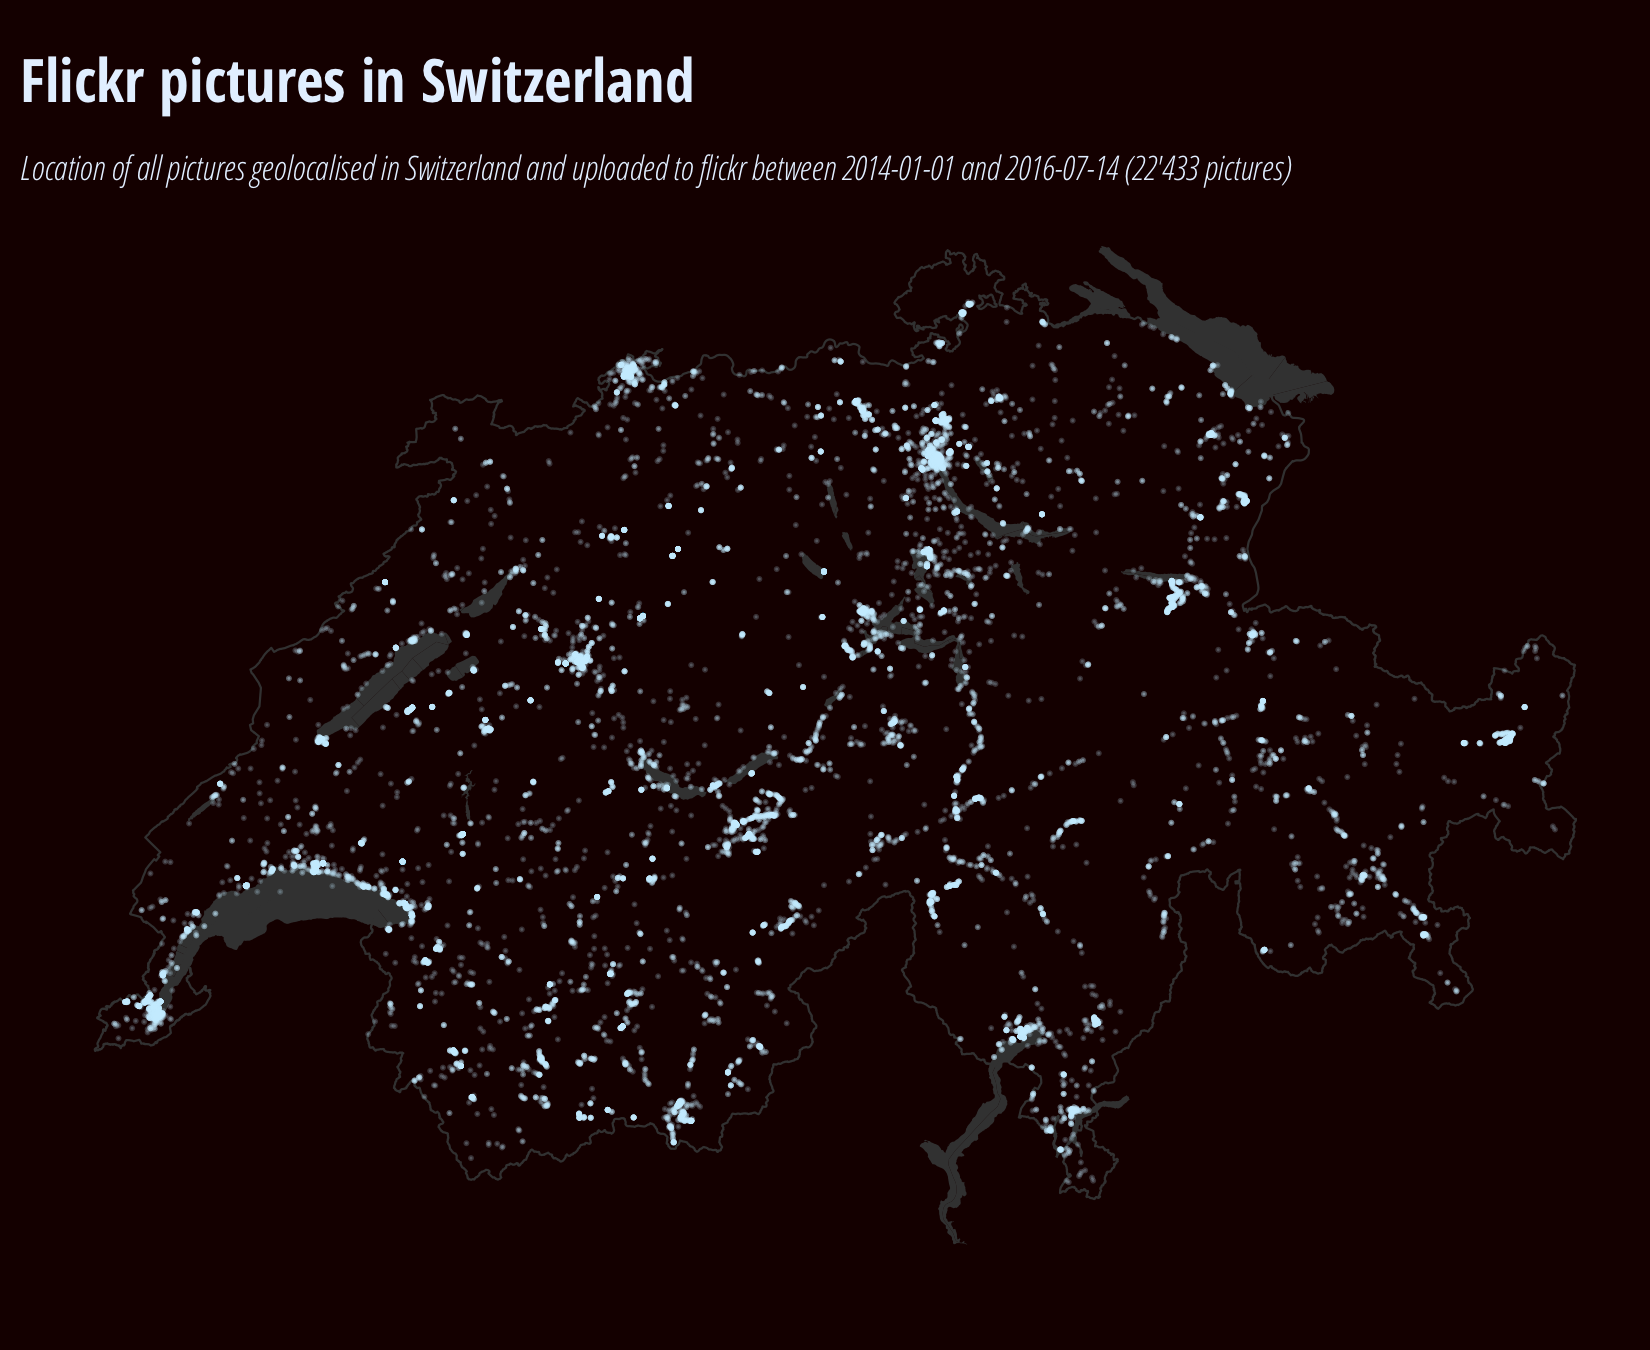
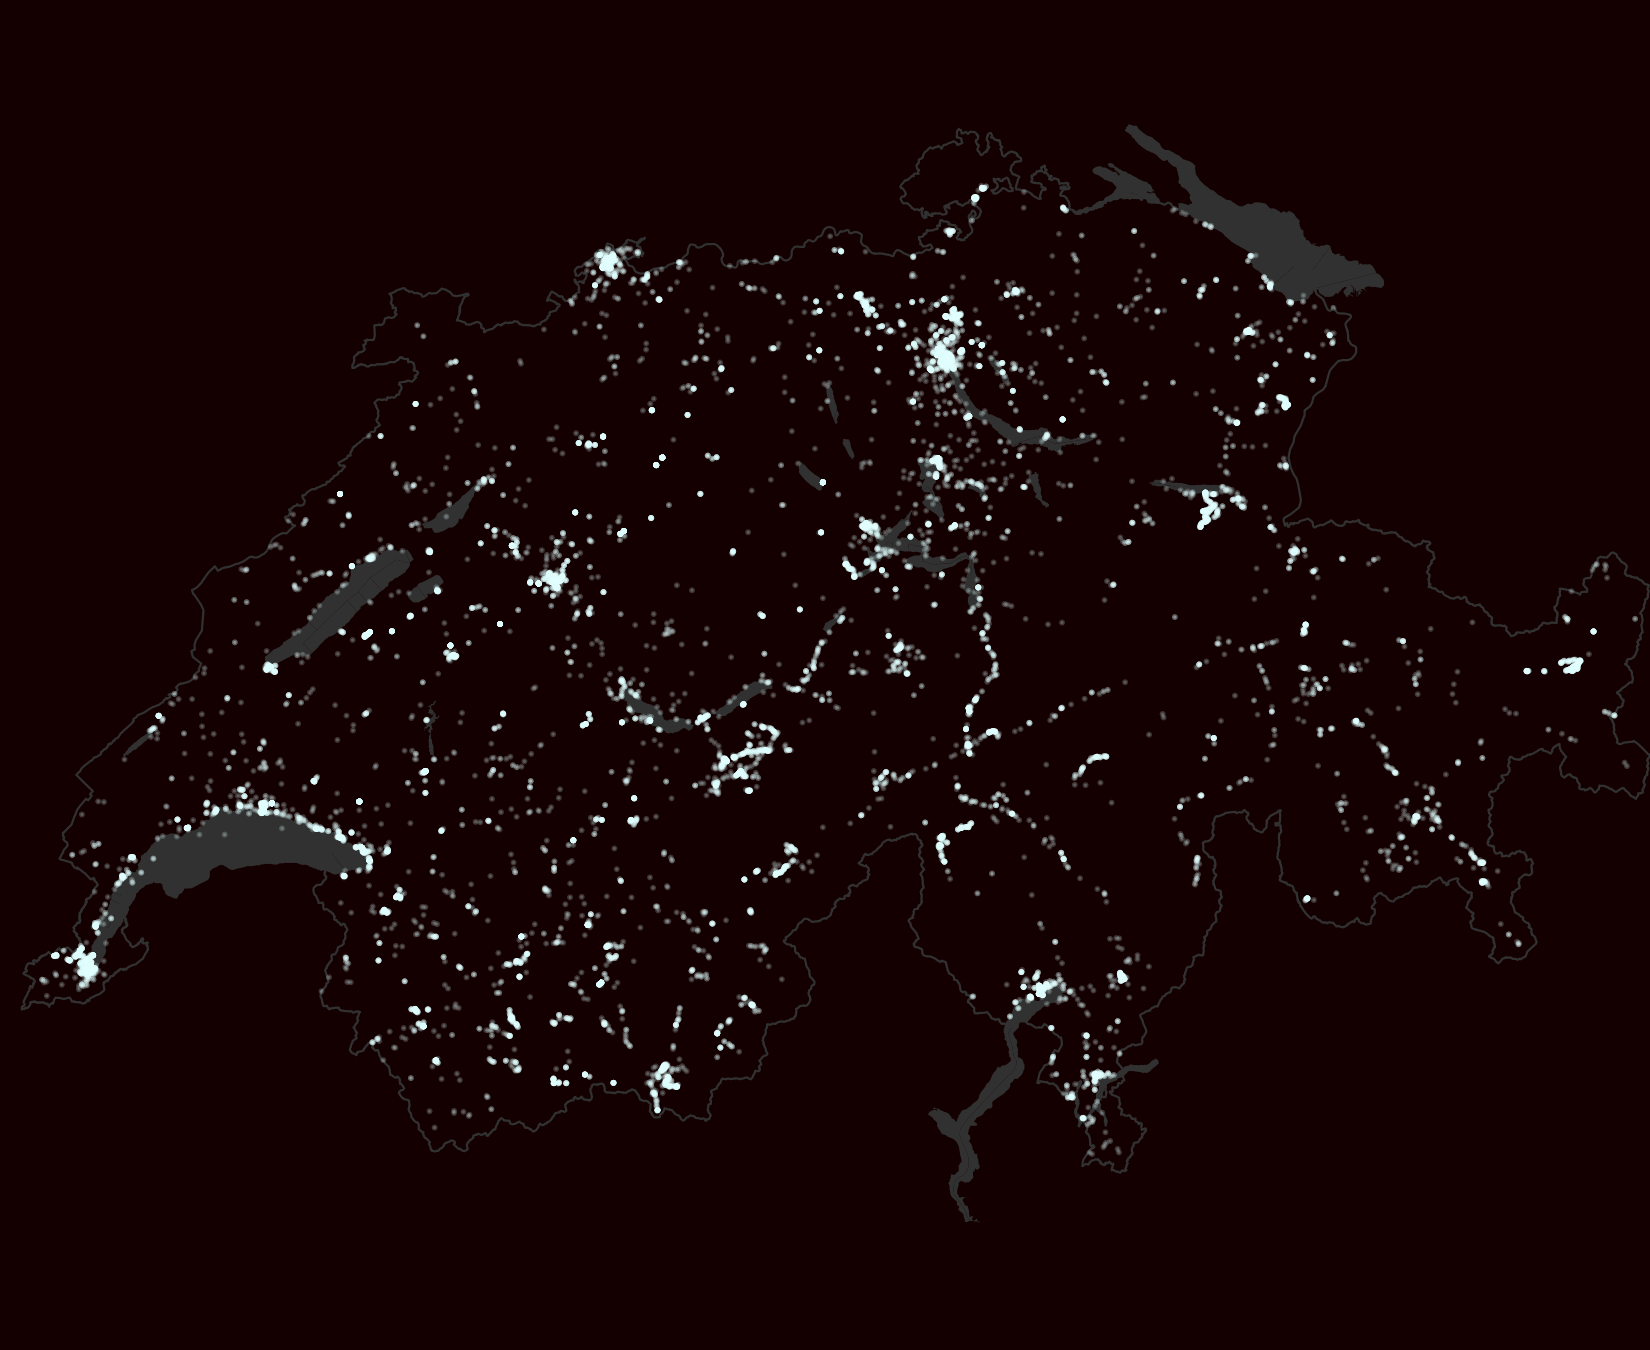
Title & description are in HTML and not in R, much better!

diff --git a/03_createFlickrMap.html b/03_createFlickrMap.html
@@ -125,7 +125,7 @@ $(document).ready(function () {
 
 <pre class="r"><code># helper mapping 
 bk_mapTheme &lt;- function(
-  base_size = 11, base_family = &quot;OpenSans-CondensedLight&quot;,
+  base_size = 14, base_family = &quot;OpenSans-CondensedLight&quot;,
   title_family = &quot;OpenSans-CondensedBold&quot;, subtitle_family = &quot;OpenSans-CondensedLight&quot;,
   bg.colour = '#1a0000', colour = colourText_bkbg
  ) {
@@ -141,10 +141,10 @@ bk_mapTheme &lt;- function(
       axis.title = element_blank(), 
       axis.text = element_blank(),
       plot.title = element_text(colour = colour), 
-      plot.subtitle = element_text(colour = &quot;white&quot;),
+      plot.subtitle = element_text(colour = &quot;white&quot;, margin=margin(b=13)),
       plot.caption = element_text(colour = colour),
-      legend.text = element_text(colour = colourText_bkbg, size = 9, vjust = 2),
-      legend.title = element_text(colour = colourText_bkbg, size = 10),
+      legend.text = element_text(colour = colourText_bkbg, size = 9.5, hjust = 1),
+      legend.title = element_text(colour = colourText_bkbg, size = 11),
       legend.key.width = unit(17, &quot;lines&quot;),
       legend.key.height = unit(8, &quot;lines&quot;),
       legend.position = &quot;top&quot;,
@@ -157,7 +157,7 @@ bk_mapTheme &lt;- function(
 lang &lt;- 'EN'
 
 map1 &lt;- ggplot(co.df) + 
-  bk_mapTheme() + 
+  bk_mapTheme() +
   coord_quickmap(expand = F) + 
   geom_polygon(
     aes(x = long, y = lat, group = group), 
@@ -167,8 +167,7 @@ map1 &lt;- ggplot(co.df) +
     size = 0, fill = border.color, colour = border.color) +
   geom_jitter(
     data = data, aes(x = lon, y = lat, group = 1), 
-    colour = &quot;#e6ffff&quot;, alpha = 0.2, size = 1/10^20) + 
-  labs(title = txt['main.title', lang], subtitle = txt['descr', lang])
+    colour = &quot;#e6ffff&quot;, alpha = 0.2, size = 1/10^20)
   
 mu.df$densityPop &lt;- densityPop[match(mu.df$BFS_NUMMER, densityPop$OFSKey), 'PopByKm2']
 # hack to put the 0.05 quantile densityPop for NA densityPop muni
@@ -208,9 +207,8 @@ map2 &lt;- ggplot(co.df) +
     family = &quot;OpenSans-CondensedLight&quot;,
     colour = colourText_bkbg,
     nudge_y = -0.082,
-    size = 3.5
-  ) +
-  labs(title = txt['title2', lang], subtitle = txt['descr2', lang])
+    size = 4
+  ) 
 
 map1.path &lt;- paste0(&quot;01_map_flickr_&quot; , lang, &quot;_01.png&quot;)
 map2.path &lt;- paste0(&quot;01_map_flickr_&quot; , lang, &quot;_02.png&quot;)      
@@ -232,14 +230,21 @@ dev.off()     </code></pre>
   tags$html(
     tags$head(includeHTML(&quot;styles.html&quot;)),
     tags$body(
-      div(class=&quot;graphic&quot;,
-          img(src = basename(map1.path), width= &quot;100%&quot;),
-          img(src = basename(map2.path), width= &quot;100%&quot;)      
-      ),
-     div(id = &quot;cite&quot;, HTML(source)),
-      HTML(iframeresizer)
+    h2(txt['main.title', lang]),
+    div(class = &quot;descr&quot;,  HTML(txt['descr', lang])),
+    div(class = &quot;graphic&quot;, img(src = basename(map1.path), width= &quot;100%&quot;)),
+    h2(txt['title2', lang]),
+    div(class = &quot;descr&quot;,  HTML(txt['descr2', lang])),
+    div(class = &quot;graphic&quot;, img(src = basename(map2.path), width= &quot;100%&quot;)),
+    div(id = &quot;cite&quot;, HTML(source)),
+    HTML(iframeresizer)
     )), file = html.outfile, background = '#1a0000'
-)</code></pre>
+)
+
+# move output to folder
+out.paths &lt;- c(map1.path, map2.path, html.outfile)
+file.rename(from = out.paths, to = paste0(&quot;output/&quot;, out.paths))</code></pre>
+<pre><code>## [1] TRUE TRUE TRUE</code></pre>
 
 
 

diff --git a/output/01_map_flickr_EN.html b/output/01_map_flickr_EN.html
@@ -3,17 +3,17 @@
 <head>
 <meta charset="utf-8"/>
 
-  <link href='https://fonts.googleapis.com/css?family=Open+Sans+Condensed:300&subset=latin,cyrillic' rel='stylesheet' type='text/css'>
-<link href='https://fonts.googleapis.com/css?family=Open+Sans:400,300,600,700,800,400italic&subset=latin,cyrillic' rel='stylesheet' type='text/css'>
+  <link href='https://fonts.googleapis.com/css?family=Open+Sans+Condensed:300,700,300italic&subset=latin,cyrillic' rel='stylesheet' type='text/css'>
 <style>
 
 body, h1, h2, h3, h4, h5, h6, .descr, td, table {
    text-rendering: optimizeLegibility;
    font-smoothing: antialiased;
-   font-family: 'Open Sans', sans-serif;
-   background-color: white;
-   font-size: 12px;
-   margin:3px 4px 3px 5px;
+   font-family: 'Open Sans Condensed', sans-serif;
+   color: #ffffff;
+   background-color: #1a0000;
+   font-size: 18px;
+   margin:3px 0px 2px 0px;
 }
 
 img {
@@ -23,12 +23,12 @@ img {
 
 
 #cite {
-    font-size: 0.7em; color: #B8B8B8; text-align: right; margin-top:1px; margin-right:15px; padding-bottom: 3px;
+    font-size: 0.85em; color: #B8B8B8; text-align: right; margin-top:1px; margin-right:15px; padding-bottom: 3px;
 }
 #cite a { text-decoration: none; color: #821122; }
 
 #footer {
-  font-size: 0.8em; 
+  font-size: 1.1em; 
   color: #9B9B9B; 
   padding: 0px;
   margin-left:3%;    
@@ -37,11 +37,11 @@ img {
 }
     
 .descr {
- font-size: 0.9em;
- color: #4d4d4d;
+ font-size: 0.95em;
+ color: #e6e6e6;
  font-weight: lighter;
- max-width:80%;
- margin-left:3%;
+ max-width:97%;
+ margin-left:2%;
 }
 
 h1 {
@@ -49,15 +49,15 @@ h1 {
 }
 
 h2 {
-   font-size:1.65em;
+   font-size:1.8em;
    line-height: 105%;
-   font-weight: lighter;
-   max-width:80%;
-   margin-left:3%;
+   font-weight: bolder;
+   max-width:97%;
+   margin-left:2%;
 }
 
 h3 {
-   font-size:1.2em;
+   font-size:1.4em;
    margin-left:3%;   
    font-weight: bold;    
 }
@@ -81,7 +81,6 @@ a:visited {
 
 
 body {
-      font-size:10pt;
       max-width:100%;
    }
 
@@ -95,8 +94,14 @@ body {
 <body style="background-color:#1a0000;">
 <html>
   <body>
+    <h2>Flickr pictures in Switzerland</h2>
+    <div class="descr">Location of all pictures geolocalised in Switzerland and uploaded to flickr between 2014-01-01 and 2016-07-14 (22'433 pictures)</div>
     <div class="graphic">
       <img src="01_map_flickr_EN_01.png" width="100%"/>
+    </div>
+    <h2>Population density by Swiss municipalities</h2>
+    <div class="descr">Swiss municipalities coloured according to their population density. The 5 largest agglomerations and their total population are shown</div>
+    <div class="graphic">
       <img src="01_map_flickr_EN_02.png" width="100%"/>
     </div>
     <div id="cite">Source: flickr, Swiss Federal Statistical Office & swisstopo | swissinfo.ch | @duc_qn</div>

diff --git a/styles.html b/styles.html
@@ -1,13 +1,14 @@
-<link href='https://fonts.googleapis.com/css?family=Open+Sans+Condensed:300&subset=latin,cyrillic' rel='stylesheet' type='text/css'>
+<link href='https://fonts.googleapis.com/css?family=Open+Sans+Condensed:300,700,300italic&subset=latin,cyrillic' rel='stylesheet' type='text/css'>
 <style>
 
 body, h1, h2, h3, h4, h5, h6, .descr, td, table {
    text-rendering: optimizeLegibility;
    font-smoothing: antialiased;
    font-family: 'Open Sans Condensed', sans-serif;
-   background-color: white;
-   font-size: 12px;
-   margin:3px 4px 3px 5px;
+   color: #ffffff;
+   background-color: #1a0000;
+   font-size: 18px;
+   margin:3px 0px 2px 0px;
 }
 
 img {
@@ -17,12 +18,12 @@ img {
 
 
 #cite {
-    font-size: 0.7em; color: #B8B8B8; text-align: right; margin-top:1px; margin-right:15px; padding-bottom: 3px;
+    font-size: 0.85em; color: #B8B8B8; text-align: right; margin-top:1px; margin-right:15px; padding-bottom: 3px;
 }
 #cite a { text-decoration: none; color: #821122; }
 
 #footer {
-  font-size: 1em; 
+  font-size: 1.1em; 
   color: #9B9B9B; 
   padding: 0px;
   margin-left:3%;    
@@ -31,11 +32,11 @@ img {
 }
     
 .descr {
- font-size: 0.9em;
- color: #4d4d4d;
+ font-size: 0.95em;
+ color: #e6e6e6;
  font-weight: lighter;
- max-width:80%;
- margin-left:3%;
+ max-width:97%;
+ margin-left:2%;
 }
 
 h1 {
@@ -43,15 +44,15 @@ h1 {
 }
 
 h2 {
-   font-size:1.65em;
+   font-size:1.8em;
    line-height: 105%;
-   font-weight: lighter;
-   max-width:80%;
-   margin-left:3%;
+   font-weight: bolder;
+   max-width:97%;
+   margin-left:2%;
 }
 
 h3 {
-   font-size:1.2em;
+   font-size:1.4em;
    margin-left:3%;   
    font-weight: bold;    
 }
@@ -75,7 +76,6 @@ a:visited {
 
 
 body {
-      font-size:10pt;
       max-width:100%;
    }
 
